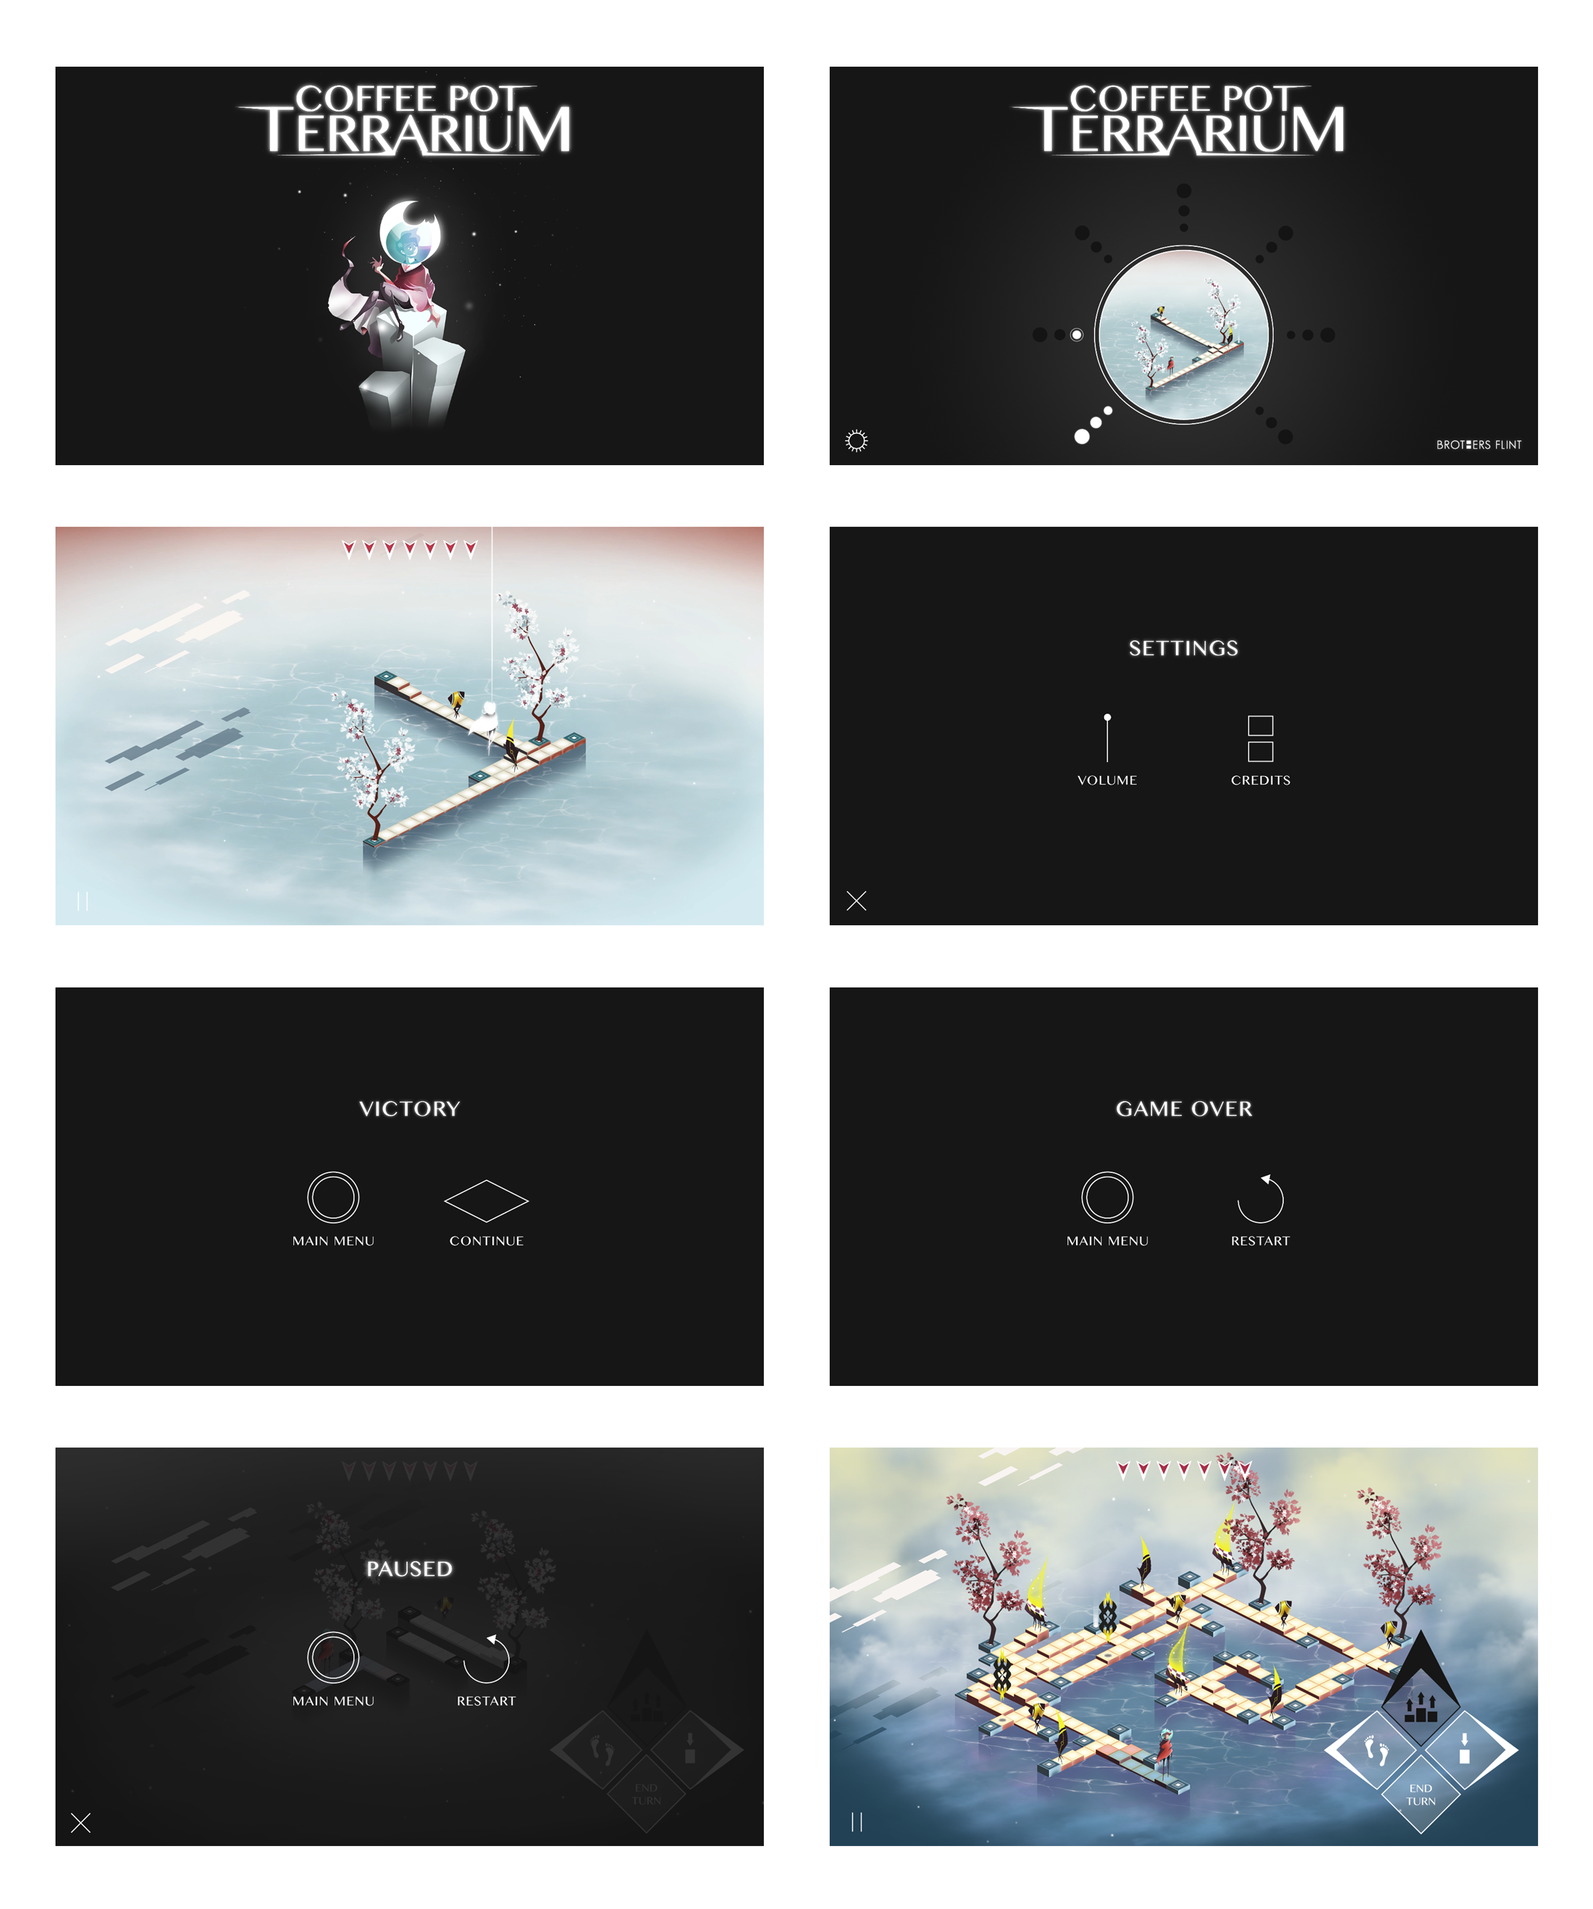
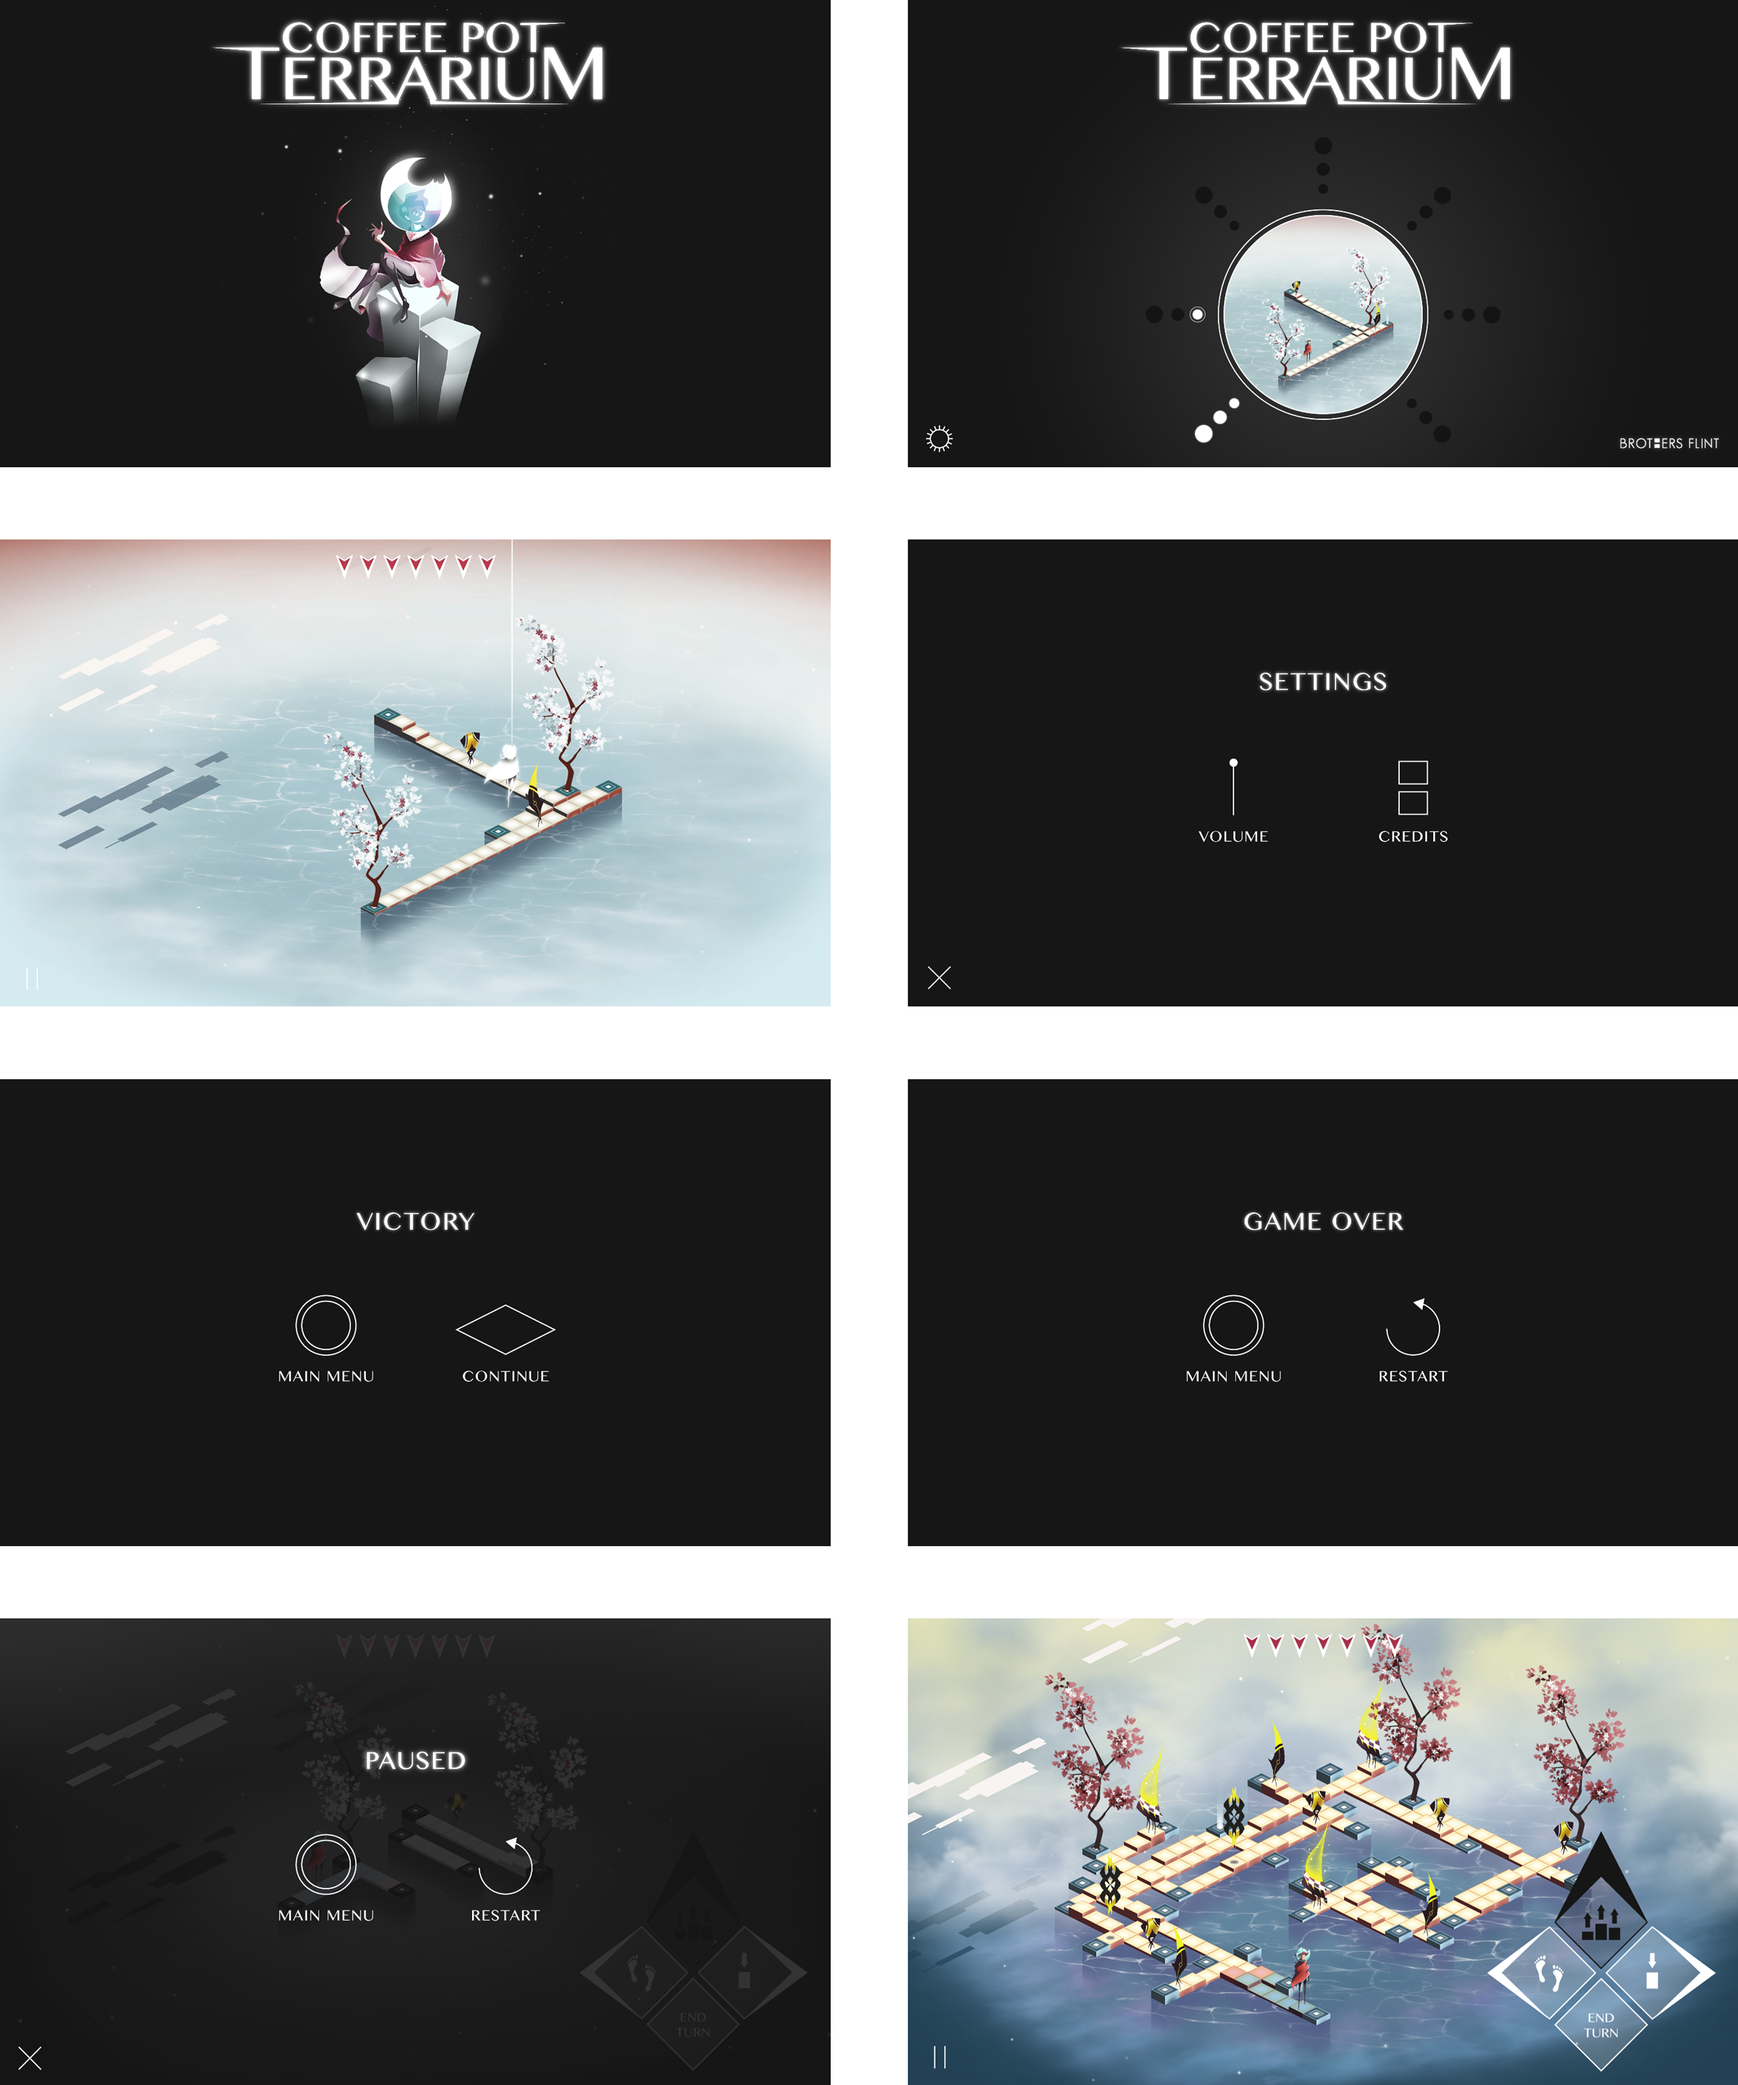
Trimmed extra edge off of CPT UX image

diff --git a/uiux.html b/uiux.html
@@ -38,7 +38,7 @@
     UI/UX Design
     </div>
     <div class="uiux-about">
-    Main menus, level selection, daily bonus, pause and game over menus, shop, settings, and tutorials. I'm working on adding more screens here in the coming weeks, in addition to some wireframes and user flows.
+    Main menus, level selection, daily bonus, pause and game over menus, shop, settings, and tutorials. I'm working on adding more screens in the coming weeks, in addition to some wireframes and user flows.
     </div>
 
     <div class="portfolio-entry">
